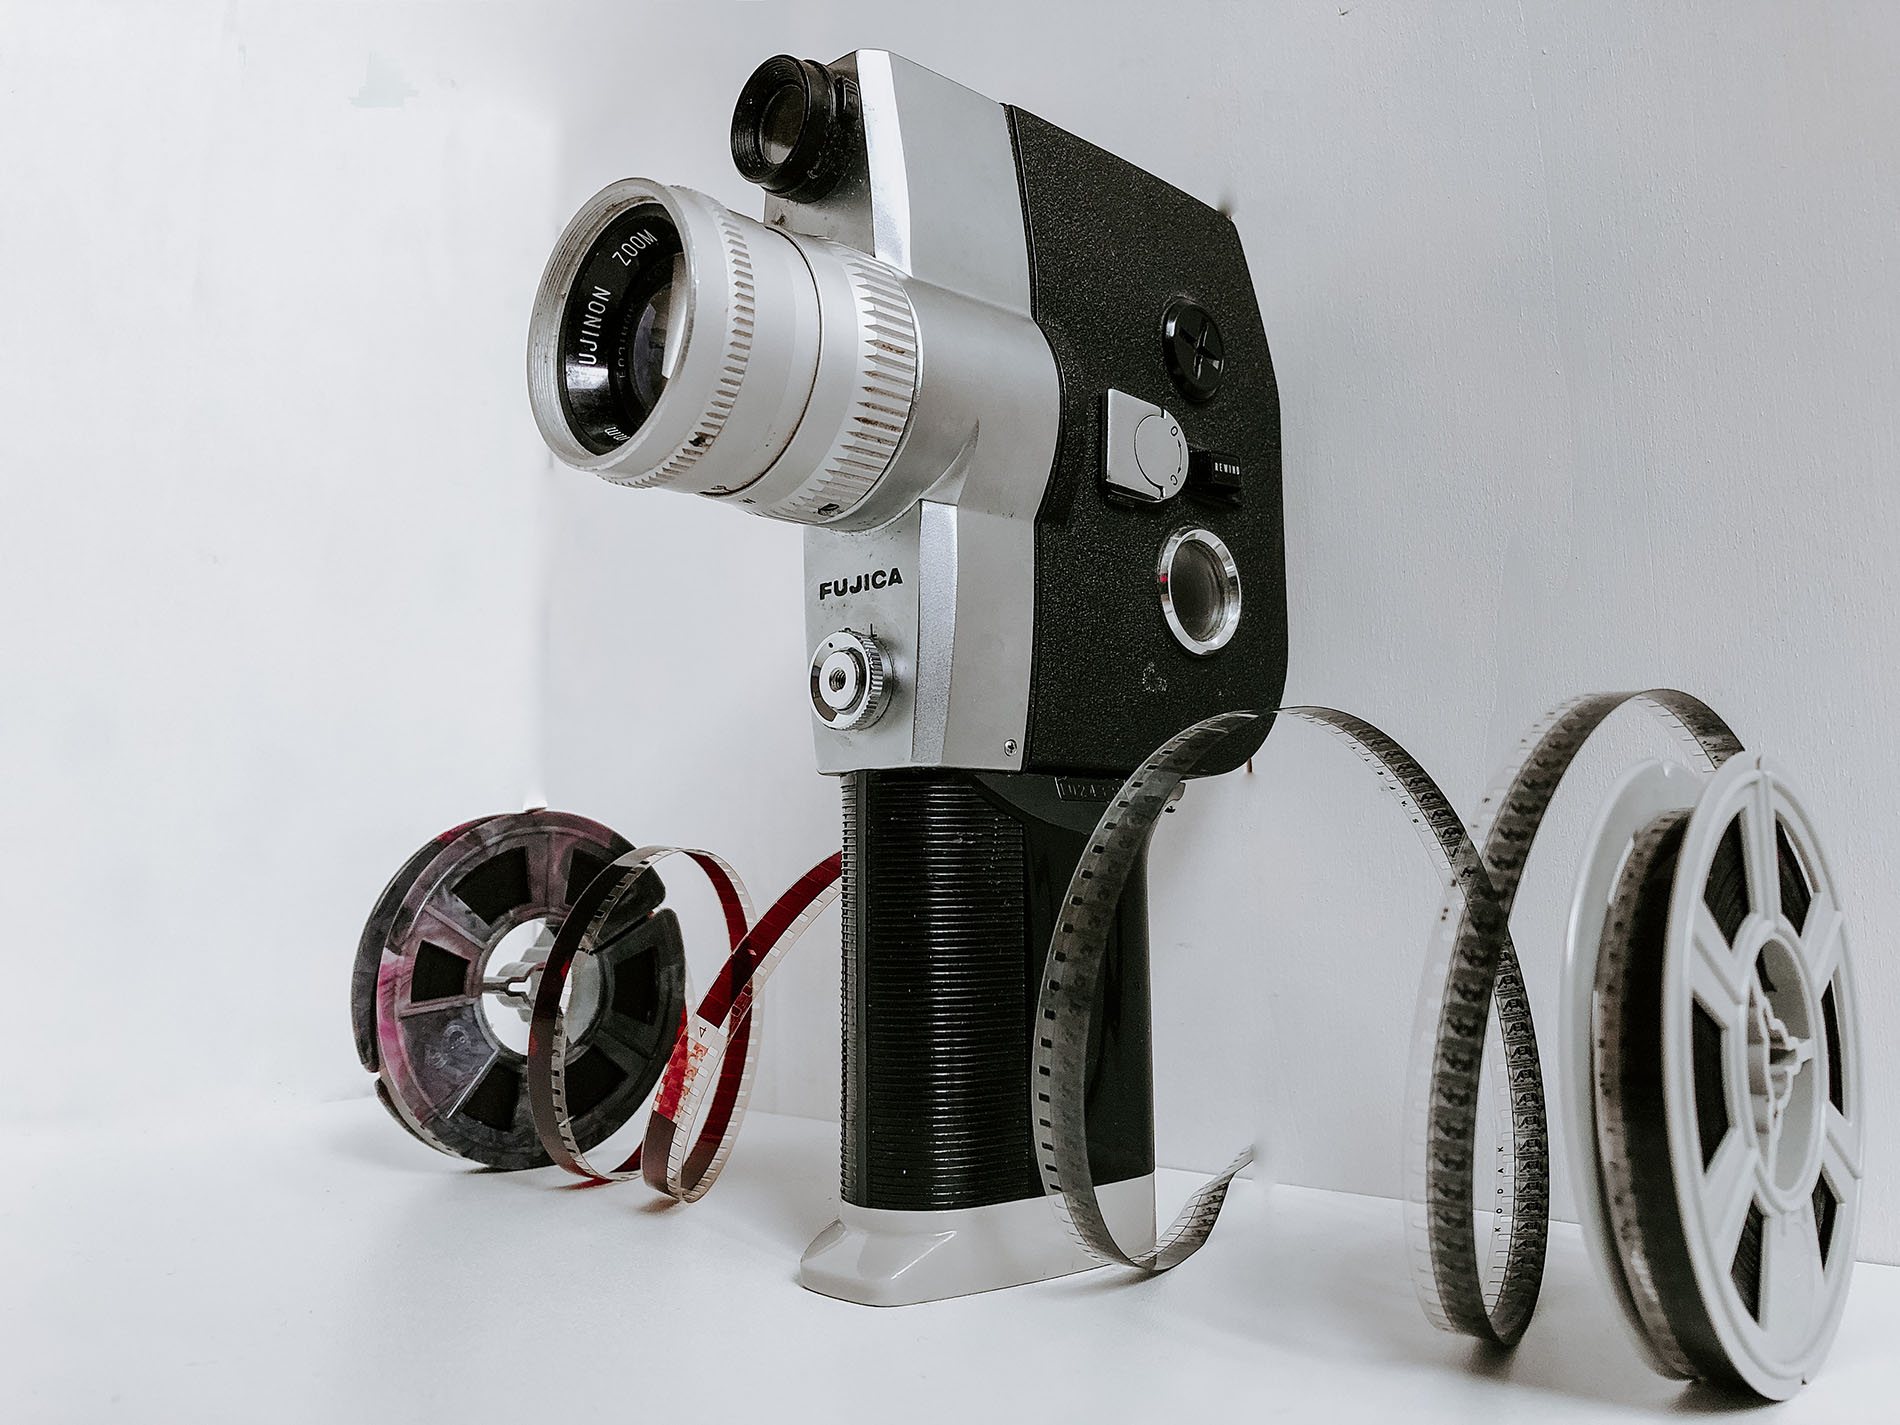
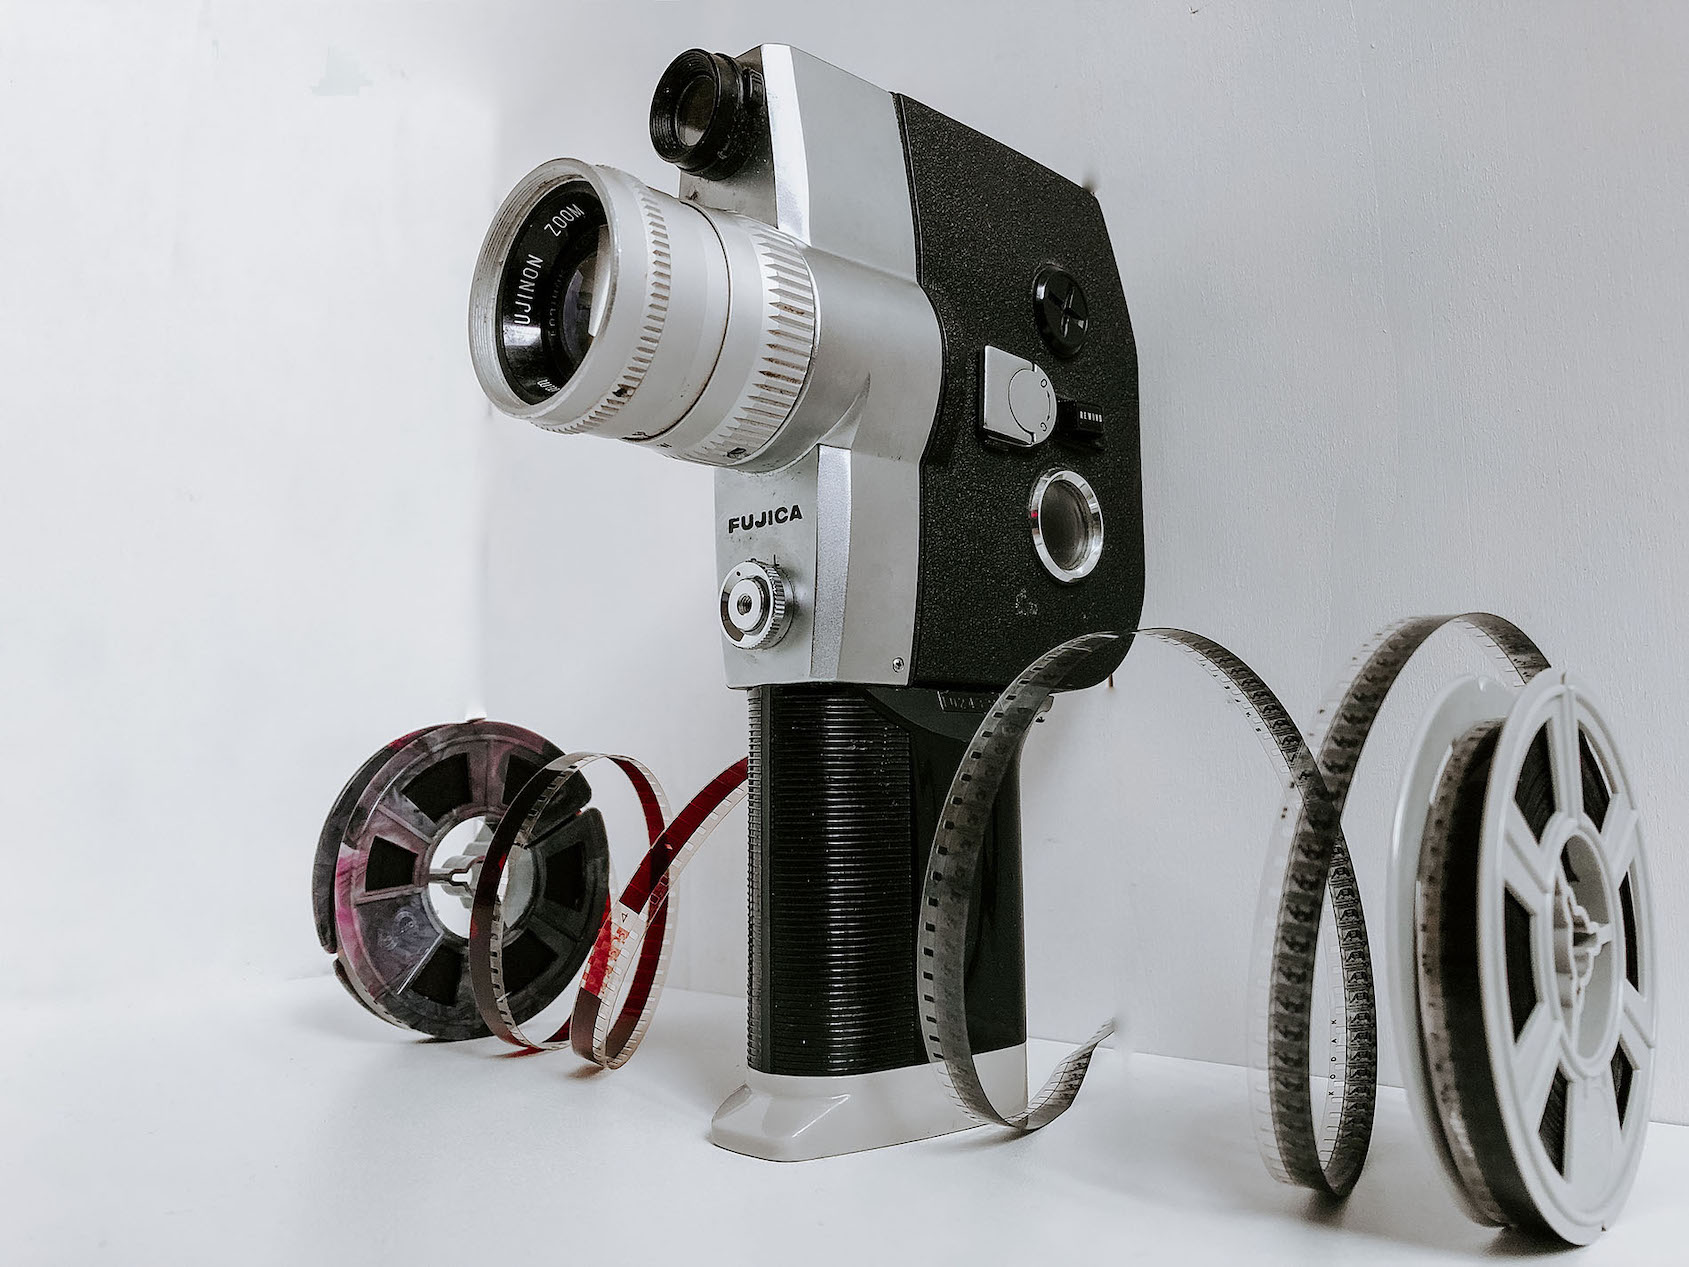
adjust image sizes

Changed region(s): [[0.4926, 0.8003, 0.5234, 0.8311], [0.431, 0.4617, 0.4618, 0.4925], [0.3079, 0.1539, 0.3387, 0.1847]]

diff --git a/ensemble_client/src/components/Images.js b/ensemble_client/src/components/Images.js
@@ -5,9 +5,9 @@ import perform from "../welcome/perform.jpg";
 import seat from "../welcome/seat.jpg";
 
 export const images = [
-  { id: 1, src: cam1, title: "cam", description: "cam" },
-  { id: 2, src: film, title: "film", description: "film" },
   { id: 3, src: cam2, title: "cam2", description: "cam2" },
+  { id: 2, src: film, title: "film", description: "film" },
+  { id: 5, src: seat, title: "seat", description: "seat" },
   { id: 4, src: perform, title: "perform", description: "perform" },
-  { id: 5, src: seat, title: "seat", description: "seat" }
+  { id: 1, src: cam1, title: "cam", description: "cam" }
 ];

diff --git a/ensemble_client/public/index.html b/ensemble_client/public/index.html
@@ -19,7 +19,7 @@
       work correctly both with client-side routing and a non-root public URL.
       Learn how to configure a non-root public URL by running `npm run build`.
     -->
-    <title>React App</title>
+    <title>Ensemble</title>
   </head>
   <body>
     <noscript>You need to enable JavaScript to run this app.</noscript>

diff --git a/ensemble_client/src/index.css b/ensemble_client/src/index.css
@@ -177,7 +177,7 @@ textarea {
 }
 
 .job-post {
-  margin-bottom: 2em;
+  margin-bottom: 1.5em;
   font-size: 1.25em;
   width: 90%;
   max-height: 40vh;
@@ -251,7 +251,7 @@ a:active {
 
 .welcome-card-text h4 {
   color: #8a0216;
-  padding-top: 15vh;
+  padding-top: 13vh;
 }
 
 .welcome-card-text p {
